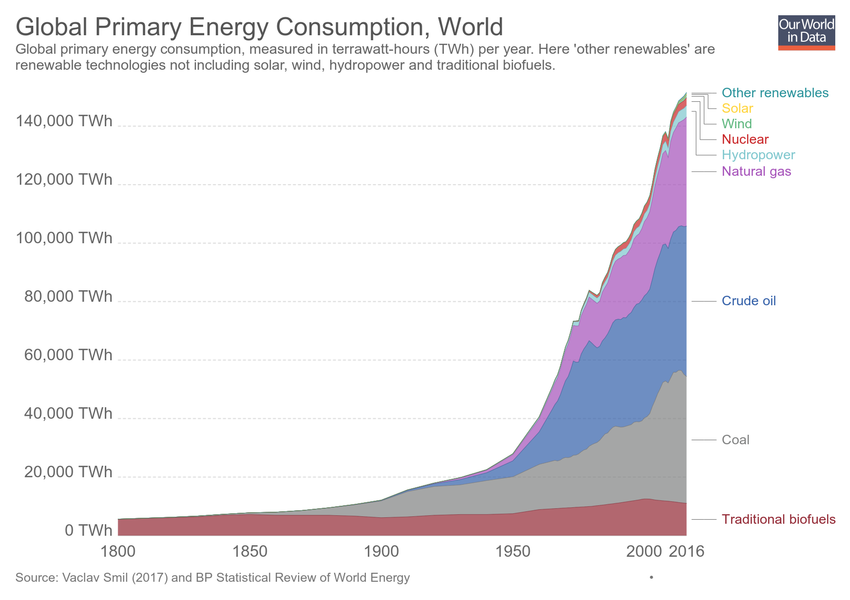
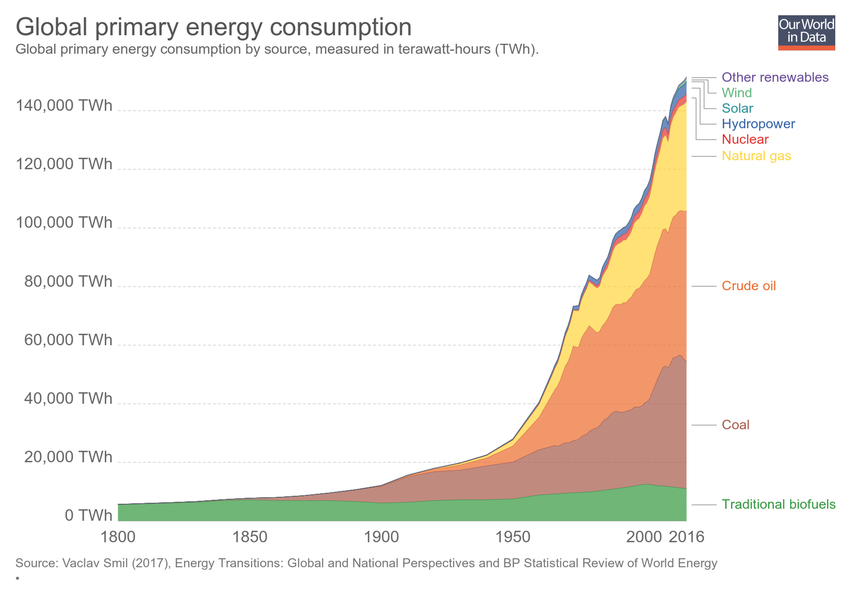
Updating chart global-energy-consumption-source

diff --git a/grapher/global-primary-energy-consumption.html b/grapher/global-primary-energy-consumption.html
@@ -1,4 +1,4 @@
-<!doctype html><html><head><meta name="viewport" content="width=device-width, initial-scale=1" /><title>Global Primary Energy Consumption - Our World in Data</title><meta name="description" content="Global primary energy consumption, measured in terrawatt-hours (TWh) per year. Here 'other renewables' are renewable technologies not including solar, wind, hydropower and traditional biofuels." /><link rel="canonical" href="https://ourworldindata.org/grapher/global-primary-energy-consumption" /><meta property="fb:app_id" content="1149943818390250" /><meta property="og:url" content="https://ourworldindata.org/grapher/global-primary-energy-consumption" /><meta property="og:title" content="Global Primary Energy Consumption" /><meta property="og:description" content="Global primary energy consumption, measured in terrawatt-hours (TWh) per year. Here 'other renewables' are renewable technologies not including solar, wind, hydropower and traditional biofuels." /><meta property="og:image" content="https://ourworldindata.org/grapher/exports/global-primary-energy-consumption.png?v=2" /><meta property="og:image:width" content="850" /><meta property="og:image:height" content="600" /><meta property="og:site_name" content="Our World in Data" /><meta name="twitter:card" content="summary_large_image" /><meta name="twitter:site" content="@OurWorldInData" /><meta name="twitter:creator" content="@OurWorldInData" /><meta name="twitter:title" content="Global Primary Energy Consumption" /><meta name="twitter:description" content="Global primary energy consumption, measured in terrawatt-hours (TWh) per year. Here 'other renewables' are renewable technologies not including solar, wind, hydropower and traditional biofuels." /><meta name="twitter:image" content="https://ourworldindata.org/grapher/exports/global-primary-energy-consumption.png?v=2" /><style>
+<!doctype html><html><head><meta name="viewport" content="width=device-width, initial-scale=1" /><title>Global primary energy consumption - Our World in Data</title><meta name="description" content="Global primary energy consumption by source, measured in terawatt-hours (TWh)." /><link rel="canonical" href="https://ourworldindata.org/grapher/global-primary-energy-consumption" /><meta property="fb:app_id" content="1149943818390250" /><meta property="og:url" content="https://ourworldindata.org/grapher/global-primary-energy-consumption" /><meta property="og:title" content="Global primary energy consumption" /><meta property="og:description" content="Global primary energy consumption by source, measured in terawatt-hours (TWh)." /><meta property="og:image" content="https://ourworldindata.org/grapher/exports/global-primary-energy-consumption.png?v=1" /><meta property="og:image:width" content="850" /><meta property="og:image:height" content="600" /><meta property="og:site_name" content="Our World in Data" /><meta name="twitter:card" content="summary_large_image" /><meta name="twitter:site" content="@OurWorldInData" /><meta name="twitter:creator" content="@OurWorldInData" /><meta name="twitter:title" content="Global primary energy consumption" /><meta name="twitter:description" content="Global primary energy consumption by source, measured in terawatt-hours (TWh)." /><meta name="twitter:image" content="https://ourworldindata.org/grapher/exports/global-primary-energy-consumption.png?v=1" /><style>
         html, body {
             height: 100%;
             margin: 0;
@@ -20,8 +20,8 @@
         }
     </style><noscript><style>
                     figure { display: none !important; }
-                </style></noscript><link rel="stylesheet" href="https://ourworldindata.org/grapher/assets/commons.bundle.dcbbe53805c487d5e57617b10ac73a8a.css" /><link rel="preload" href="/grapher/data/variables/1896+1901+1897+1898+1903+1902+1899+1900+42752.json?v=2" as="fetch" crossorigin /></head><body class="singleChart"><figure data-grapher-src="/grapher/global-primary-energy-consumption"></figure><noscript id="fallback"><img src="/grapher/exports/global-primary-energy-consumption.svg" /><p>Interactive visualization requires JavaScript</p></noscript><script src="https://cdn.polyfill.io/v2/polyfill.min.js?features=es6,fetch"></script><script src="https://ourworldindata.org/grapher/assets/commons.bundle.da523acc49807a06a11f.js"></script><script src="https://ourworldindata.org/grapher/assets/charts.bundle.da523acc49807a06a11f.js"></script><script>
-        var jsonConfig = {"id":2712,"map":{"projection":"World","colorSchemeLabels":[],"colorSchemeValues":[],"customNumericColors":[],"customCategoryColors":{},"customCategoryLabels":{},"customHiddenCategories":{}},"tab":"chart","slug":"global-primary-energy-consumption","type":"StackedArea","title":"Global Primary Energy Consumption","xAxis":{"scaleType":"linear"},"yAxis":{"min":0,"scaleType":"linear"},"version":2,"subtitle":"Global primary energy consumption, measured in terrawatt-hours (TWh) per year. Here 'other renewables' are renewable technologies not including solar, wind, hydropower and traditional biofuels.","hasMapTab":false,"stackMode":"absolute","dimensions":[{"display":{"name":"Coal"},"property":"y","variableId":1896},{"display":{"name":"Solar"},"property":"y","variableId":1901},{"display":{"name":"Crude oil"},"property":"y","variableId":1897},{"display":{"name":"Natural gas"},"property":"y","variableId":1898},{"display":{"name":"Traditional biofuels"},"property":"y","variableId":1903},{"display":{"name":"Other renewables"},"property":"y","variableId":1902},{"display":{"name":"Hydropower"},"property":"y","variableId":1899},{"display":{"name":"Nuclear"},"property":"y","variableId":1900},{"display":{"name":"Wind"},"property":"y","variableId":42752}],"sourceDesc":"Vaclav Smil (2017) and BP Statistical Review of World Energy","hasChartTab":true,"isPublished":true,"selectedData":[{"color":"#2a939b","index":5,"entityId":355},{"color":"#ffd53e","index":1,"entityId":355},{"color":"#5eb77e","index":8,"entityId":355},{"color":"#ca2628","index":7,"entityId":355},{"color":"#7ec7ce","index":6,"entityId":355},{"color":"#a652ba","index":3,"entityId":355},{"color":"#3360a9","index":2,"entityId":355},{"color":"#818282","index":0,"entityId":355},{"color":"#932834","index":4,"entityId":355}],"addCountryMode":"change-country"};
+                </style></noscript><link rel="stylesheet" href="https://ourworldindata.org/grapher/assets/commons.bundle.dcbbe53805c487d5e57617b10ac73a8a.css" /><link rel="preload" href="/grapher/data/variables/1901+1902+1900+1899+1898+1897+1896+1903+42752.json?v=1" as="fetch" crossorigin /></head><body class="singleChart"><figure data-grapher-src="/grapher/global-primary-energy-consumption"></figure><noscript id="fallback"><img src="/grapher/exports/global-primary-energy-consumption.svg" /><p>Interactive visualization requires JavaScript</p></noscript><script src="https://cdn.polyfill.io/v2/polyfill.min.js?features=es6,fetch"></script><script src="https://ourworldindata.org/grapher/assets/commons.bundle.da523acc49807a06a11f.js"></script><script src="https://ourworldindata.org/grapher/assets/charts.bundle.da523acc49807a06a11f.js"></script><script>
+        var jsonConfig = {"id":645,"map":{"projection":"World","targetYear":1980,"variableId":1896,"timeTolerance":1,"legendStepSize":20,"baseColorScheme":"BuGn","colorSchemeInvert":false,"colorSchemeLabels":[],"colorSchemeValues":[],"defaultProjection":"World","legendDescription":"","customColorsActive":false,"customNumericColors":[],"customCategoryColors":{},"customCategoryLabels":{},"customHiddenCategories":{}},"tab":"chart","note":"","slug":"global-primary-energy-consumption","type":"StackedArea","title":"Global primary energy consumption","xAxis":{"scaleType":"linear"},"yAxis":{"min":0,"scaleType":"linear","labelDistance":-10},"version":1,"subtitle":"Global primary energy consumption by source, measured in terawatt-hours (TWh).","hasMapTab":false,"originUrl":"https://ourworldindata.org/energy-production-and-changing-energy-sources/","stackMode":"absolute","dimensions":[{"id":10943,"order":0,"chartId":645,"display":{"name":"Solar","unit":"terrawatt-hours","shortUnit":"TWh","tolerance":5,"isProjection":false,"conversionFactor":1},"property":"y","targetYear":null,"variableId":1901},{"id":10944,"order":1,"chartId":645,"display":{"name":"Other renewables","unit":"terrawatt-hours","shortUnit":"TWh","tolerance":5,"isProjection":false,"conversionFactor":1},"property":"y","targetYear":null,"variableId":1902},{"id":10945,"order":2,"chartId":645,"display":{"name":"Nuclear","unit":"terrawatt-hours","shortUnit":"TWh","tolerance":5,"isProjection":false,"conversionFactor":1},"property":"y","targetYear":null,"variableId":1900},{"id":10946,"order":3,"chartId":645,"display":{"name":"Hydropower","unit":"terrawatt-hours","shortUnit":"TWh","tolerance":5,"isProjection":false,"conversionFactor":1},"property":"y","targetYear":null,"variableId":1899},{"id":10947,"order":4,"chartId":645,"display":{"name":"Natural gas","unit":"terrawatt-hours","shortUnit":"TWh","tolerance":5,"isProjection":false,"conversionFactor":1},"property":"y","targetYear":null,"variableId":1898},{"id":10948,"order":5,"chartId":645,"display":{"name":"Crude oil","unit":"terrawatt-hours","shortUnit":"TWh","tolerance":5,"isProjection":false,"conversionFactor":1},"property":"y","targetYear":null,"variableId":1897},{"id":10949,"order":6,"chartId":645,"display":{"name":"Coal","unit":"terrawatt-hours","shortUnit":"TWh","tolerance":5,"isProjection":false,"conversionFactor":1},"property":"y","targetYear":null,"variableId":1896},{"id":10950,"order":7,"chartId":645,"display":{"name":"Traditional biofuels","unit":"terrawatt-hours","shortUnit":"TWh","tolerance":5,"isProjection":false,"conversionFactor":1},"property":"y","targetYear":null,"variableId":1903},{"id":10951,"order":8,"chartId":645,"display":{"name":"Wind","unit":"terrawatt-hours","shortUnit":"TWh"},"property":"y","targetYear":null,"variableId":42752}],"entityType":"country","hideLegend":false,"sourceDesc":"Vaclav Smil (2017), Energy Transitions: Global and National Perspectives and BP Statistical Review of World Energy","hasChartTab":true,"isPublished":true,"selectedData":[{"color":"#674c98","index":1,"entityId":355},{"color":"#5eb77e","index":8,"entityId":355},{"color":"#2a939b","index":0,"entityId":355},{"color":"#3360a9","index":3,"entityId":355},{"color":"#e6332e","index":2,"entityId":355},{"color":"#ffd53e","index":4,"entityId":355},{"color":"#ed6c2d","index":5,"entityId":355},{"color":"#a85a4a","index":6,"entityId":355},{"color":"#34983f","index":7,"entityId":355}],"internalNotes":"","addCountryMode":"change-country","hideRelativeToggle":false,"hideTitleAnnotation":true};
         var figure = document.getElementsByTagName("figure")[0];
         try {
             window.App = {};

diff --git a/grapher/global-energy-consumption-source.html b/grapher/global-energy-consumption-source.html
@@ -1,0 +1,35 @@
+<!doctype html><html><head><meta name="viewport" content="width=device-width, initial-scale=1" /><title>Global primary energy consumption by source - Our World in Data</title><meta name="description" content="Global primary energy consumption, measured in terrawatt-hours (TWh) per year. Here 'other renewables' are renewabletechnologies not including solar, wind, hydropower and traditional biofuels." /><link rel="canonical" href="https://ourworldindata.org/grapher/global-energy-consumption-source" /><meta property="fb:app_id" content="1149943818390250" /><meta property="og:url" content="https://ourworldindata.org/grapher/global-energy-consumption-source" /><meta property="og:title" content="Global primary energy consumption by source" /><meta property="og:description" content="Global primary energy consumption, measured in terrawatt-hours (TWh) per year. Here 'other renewables' are renewabletechnologies not including solar, wind, hydropower and traditional biofuels." /><meta property="og:image" content="https://ourworldindata.org/grapher/exports/global-energy-consumption-source.png?v=12" /><meta property="og:image:width" content="850" /><meta property="og:image:height" content="600" /><meta property="og:site_name" content="Our World in Data" /><meta name="twitter:card" content="summary_large_image" /><meta name="twitter:site" content="@OurWorldInData" /><meta name="twitter:creator" content="@OurWorldInData" /><meta name="twitter:title" content="Global primary energy consumption by source" /><meta name="twitter:description" content="Global primary energy consumption, measured in terrawatt-hours (TWh) per year. Here 'other renewables' are renewabletechnologies not including solar, wind, hydropower and traditional biofuels." /><meta name="twitter:image" content="https://ourworldindata.org/grapher/exports/global-energy-consumption-source.png?v=12" /><style>
+        html, body {
+            height: 100%;
+            margin: 0;
+        }
+
+        figure[data-grapher-src], #fallback {
+            display: flex;
+            align-items: center;
+            justify-content: center;
+            flex-direction: column;
+            margin: 0;
+            width: 100%;
+            height: 100%;
+        }
+
+        #fallback > img {
+            max-width: 100%;
+            border: 1px solid #ccc;
+        }
+    </style><noscript><style>
+                    figure { display: none !important; }
+                </style></noscript><link rel="stylesheet" href="https://ourworldindata.org/grapher/assets/commons.bundle.dcbbe53805c487d5e57617b10ac73a8a.css" /><link rel="preload" href="/grapher/data/variables/1896+1897+1899+1898+1900+1902+1901+1903+42752.json?v=12" as="fetch" crossorigin /></head><body class="singleChart"><figure data-grapher-src="/grapher/global-energy-consumption-source"></figure><noscript id="fallback"><img src="/grapher/exports/global-energy-consumption-source.svg" /><p>Interactive visualization requires JavaScript</p></noscript><script src="https://cdn.polyfill.io/v2/polyfill.min.js?features=es6,fetch"></script><script src="https://ourworldindata.org/grapher/assets/commons.bundle.da523acc49807a06a11f.js"></script><script src="https://ourworldindata.org/grapher/assets/charts.bundle.da523acc49807a06a11f.js"></script><script>
+        var jsonConfig = {"id":695,"map":{"projection":"World","targetYear":1980,"variableId":2022,"timeTolerance":1,"baseColorScheme":"BuGn","colorSchemeInvert":false,"colorSchemeLabels":[],"colorSchemeValues":[],"legendDescription":"","customColorsActive":false,"colorSchemeMinValue":0,"customNumericColors":[],"customCategoryColors":{},"customCategoryLabels":{},"customHiddenCategories":{}},"tab":"chart","note":"","slug":"global-energy-consumption-source","type":"LineChart","title":"Global primary energy consumption by source","xAxis":{"scaleType":"linear"},"yAxis":{"min":0,"suffix":"%","scaleType":"linear","labelDistance":-10},"version":12,"subtitle":"Global primary energy consumption, measured in terrawatt-hours (TWh) per year. Here 'other renewables' are renewabletechnologies not including solar, wind, hydropower and traditional biofuels.","hasMapTab":false,"originUrl":"","stackMode":"absolute","dimensions":[{"display":{"name":"Coal"},"property":"y","variableId":1896},{"display":{"name":"Crude oil"},"property":"y","variableId":1897},{"display":{"name":"Hydropower"},"property":"y","variableId":1899},{"display":{"name":"Natural gas"},"property":"y","variableId":1898},{"display":{"name":"Nuclear"},"property":"y","variableId":1900},{"display":{"name":"Other renewables"},"property":"y","variableId":1902},{"display":{"name":"Solar"},"property":"y","variableId":1901},{"display":{"name":"Traditional biofuels"},"property":"y","variableId":1903},{"display":{"name":"Wind"},"property":"y","variableId":42752}],"entityType":"country","hideLegend":false,"sourceDesc":"Vaclav Smil (2017) & BP Statistical Review of World Energy","hasChartTab":true,"isPublished":true,"selectedData":[{"color":"#818282","index":0,"entityId":355},{"color":"#3360a9","index":1,"entityId":355},{"color":"#b077b1","index":2,"entityId":355},{"color":"#f6a324","index":3,"entityId":355},{"color":"#932834","index":4,"entityId":355},{"color":"#7ec7ce","index":5,"entityId":355},{"color":"#ffd53e","index":6,"entityId":355},{"color":"#818282","index":7,"entityId":355},{"color":"#ca2628","index":8,"entityId":355}],"internalNotes":"","addCountryMode":"change-country","hideRelativeToggle":false,"hideTitleAnnotation":true};
+        var figure = document.getElementsByTagName("figure")[0];
+        try {
+            window.App = {};
+            window.Global = { rootUrl: 'https://ourworldindata.org/grapher' };
+            ChartView.bootstrap({ jsonConfig: jsonConfig, containerNode: figure })
+        } catch (err) {
+            figure.innerHTML = "<img src=\"/grapher/exports/global-energy-consumption-source.svg\"/><p>Unable to load interactive visualization</p>";
+            figure.setAttribute("id", "fallback");
+            throw err;
+        }
+    </script></body></html>
